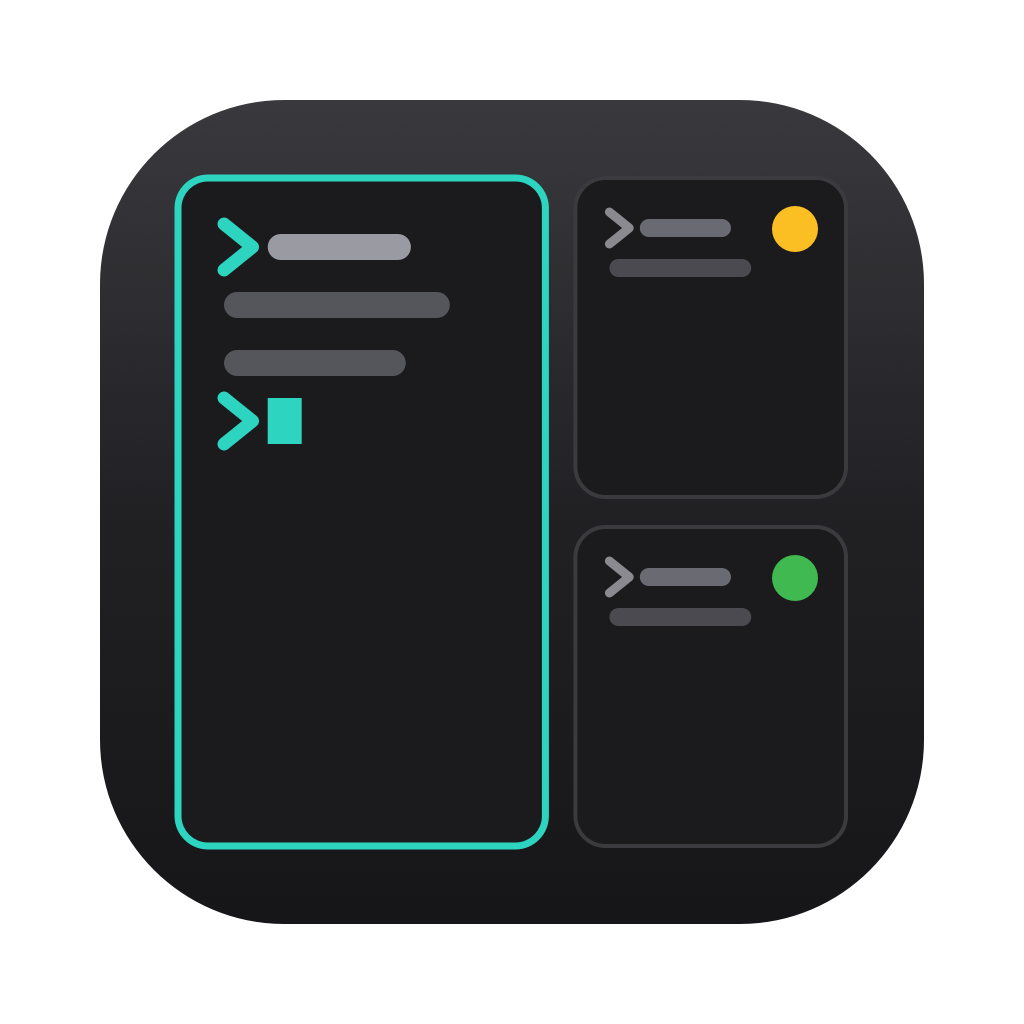
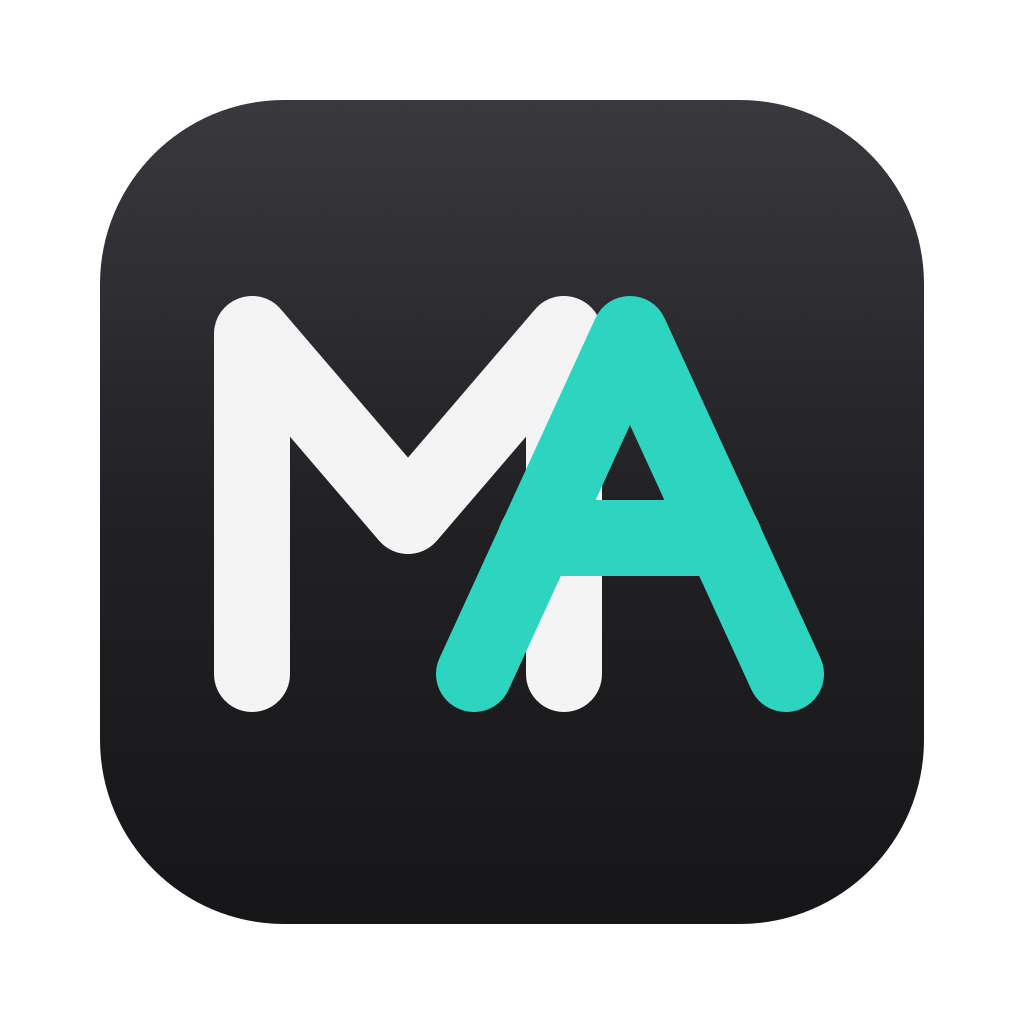
feat: 앱 아이콘 재디자인 — MA 겹친 모노그램(GitBaro 톤·muxa 청록 A)

Changed region(s): [[0.1562, 0.1562, 0.8438, 0.8438], [0.5625, 0.8125, 0.8125, 0.8438]]

diff --git a/scripts/build-appicon/icon-gen.swift b/scripts/build-appicon/icon-gen.swift
@@ -1,8 +1,7 @@
 import AppKit
 
-// muxa 앱 아이콘 생성기 — Core Graphics 드로잉(SVG 래스터라이저 의존 없음).
-// 정체성: 에이전트 오케스트레이션 터미널 = 분할된 칸(멀티플렉싱) + "나를 기다린다" 알림 점.
-// 색은 Palette.swift 다크 값 그대로.
+// muxa 앱 아이콘 — GitBaro의 "GB 겹친 모노그램" 톤을 따르되 muxa 정체성 색을 쓴다.
+// 차콜 squircle + 두꺼운 geometric "MA" 모노그램(M=밝은 흰, A=청록 borderFocus)이 획을 겹친다.
 
 let S: CGFloat = 1024
 
@@ -16,114 +15,54 @@ let rep = NSBitmapImageRep(bitmapDataPlanes: nil, pixelsWide: Int(S), pixelsHigh
     colorSpaceName: .deviceRGB, bytesPerRow: 0, bitsPerPixel: 0)!
 NSGraphicsContext.saveGraphicsState()
 NSGraphicsContext.current = NSGraphicsContext(bitmapImageRep: rep)
-let ctx = NSGraphicsContext.current!.cgContext
 
-// ── 1. squircle 배경 (macOS 아이콘 그리드: 824 shape in 1024, 여백 100) ──
+// ── squircle 배경 (GitBaro 톤: 차콜, 미세 그라디언트) ──
 let margin: CGFloat = 100
 let shape = CGRect(x: margin, y: margin, width: S - 2 * margin, height: S - 2 * margin)
-let corner: CGFloat = shape.width * 0.2237 // Apple squircle 근사
-let bgPath = NSBezierPath(roundedRect: shape, xRadius: corner, yRadius: corner)
-bgPath.addClip()
+let corner = shape.width * 0.2237
+let bg = NSBezierPath(roundedRect: shape, xRadius: corner, yRadius: corner)
+bg.addClip()
+NSGradient(colors: [hex(0x2C2C31), hex(0x161618)])!.draw(in: shape, angle: -90)
+NSGradient(colors: [hex(0xFFFFFF, 0.06), hex(0xFFFFFF, 0)])!
+    .draw(in: CGRect(x: shape.minX, y: shape.midY, width: shape.width, height: shape.height / 2), angle: -90)
 
-// 차콜 세로 그라디언트 (위가 살짝 밝아 입체감)
-let grad = NSGradient(colors: [hex(0x2C2C31), hex(0x161618)])!
-grad.draw(in: shape, angle: -90)
+// ── MA 모노그램 (두꺼운 stroke, round join — geometric) ──
+let lw: CGFloat = 76
+func p(_ x: CGFloat, _ y: CGFloat) -> NSPoint { NSPoint(x: x, y: y) }
 
-// 상단 미세 하이라이트(유리질 느낌)
-let gloss = NSGradient(colors: [hex(0xFFFFFF, 0.06), hex(0xFFFFFF, 0)])!
-gloss.draw(in: CGRect(x: shape.minX, y: shape.midY, width: shape.width, height: shape.height / 2), angle: -90)
-
-// ── 2. 3분할 터미널 칸 (좌 큰 칸 + 우 상/하) ──
-let pad: CGFloat = 78
-let content = shape.insetBy(dx: pad, dy: pad)
-let gap: CGFloat = 30
-let leftW = content.width * 0.55
-let rightW = content.width - leftW - gap
-let rightX = content.minX + leftW + gap
-let halfH = (content.height - gap) / 2
-
-let paneRadius: CGFloat = 30
-struct Pane { let rect: CGRect; let active: Bool }
-let leftPane  = Pane(rect: CGRect(x: content.minX, y: content.minY, width: leftW, height: content.height), active: true)
-let topRight  = Pane(rect: CGRect(x: rightX, y: content.minY + halfH + gap, width: rightW, height: halfH), active: false)
-let botRight  = Pane(rect: CGRect(x: rightX, y: content.minY, width: rightW, height: halfH), active: false)
-
-func drawPane(_ p: Pane) {
-    let path = NSBezierPath(roundedRect: p.rect, xRadius: paneRadius, yRadius: paneRadius)
-    hex(0x1B1B1D).setFill()
-    path.fill()
-    // 활성 칸은 청록 테두리(포커스), 나머지는 은은한 회색.
-    (p.active ? hex(0x2DD4BF) : hex(0x3A3A3F)).setStroke()
-    path.lineWidth = p.active ? 7 : 4
+func stroke(_ path: NSBezierPath, _ color: NSColor) {
+    path.lineWidth = lw
+    path.lineJoinStyle = .round
+    path.lineCapStyle = .round
+    color.setStroke()
     path.stroke()
 }
-[leftPane, topRight, botRight].forEach(drawPane)
 
-// ── 3. 각 칸의 프롬프트 (chevron › + 텍스트 라인 막대) ──
-func bar(_ x: CGFloat, _ y: CGFloat, _ w: CGFloat, _ h: CGFloat, _ c: NSColor) {
-    c.setFill()
-    NSBezierPath(roundedRect: CGRect(x: x, y: y, width: w, height: h), xRadius: h / 2, yRadius: h / 2).fill()
-}
+let yBot: CGFloat = 350
+let yTop: CGFloat = 690
 
-// chevron "›" 을 두 획 path로 그린다(폰트 의존 없음).
-func chevron(at pt: CGPoint, size: CGFloat, color: NSColor, width: CGFloat) {
-    let p = NSBezierPath()
-    p.move(to: CGPoint(x: pt.x, y: pt.y + size))
-    p.line(to: CGPoint(x: pt.x + size * 0.62, y: pt.y + size / 2))
-    p.line(to: CGPoint(x: pt.x, y: pt.y))
-    p.lineWidth = width
-    p.lineCapStyle = .round
-    p.lineJoinStyle = .round
-    color.setStroke()
-    p.stroke()
-}
+// M — 왼쪽. 좌하→좌상(뾰족)→중턱(V 바닥)→우상(뾰족)→우하. 밝은 흰.
+let m = NSBezierPath()
+m.move(to: p(252, yBot))
+m.line(to: p(252, yTop))
+m.line(to: p(408, 508))
+m.line(to: p(564, yTop))
+m.line(to: p(564, yBot))
+stroke(m, hex(0xF4F4F5))
 
-// 좌측 활성 칸: 밝은 프롬프트 + 청록 커서 블록
-do {
-    let r = leftPane.rect.insetBy(dx: 46, dy: 46)
-    let lh: CGFloat = 26           // 라인 높이(막대 두께)
-    let ls: CGFloat = 58           // 라인 간격
-    let chSize: CGFloat = 46
-    var y = r.maxY - chSize
-    // line 1: › + 명령
-    chevron(at: CGPoint(x: r.minX, y: y), size: chSize, color: hex(0x2DD4BF), width: 13)
-    bar(r.minX + chSize * 0.95, y + (chSize - lh) / 2, r.width * 0.52, lh, hex(0x9A9AA2))
-    y -= ls
-    // line 2~3: 출력 라인(어두운 muted)
-    bar(r.minX, y + (chSize - lh) / 2, r.width * 0.82, lh, hex(0x55555C))
-    y -= ls
-    bar(r.minX, y + (chSize - lh) / 2, r.width * 0.66, lh, hex(0x55555C))
-    y -= ls
-    // 커서 라인: › + 청록 커서 블록
-    chevron(at: CGPoint(x: r.minX, y: y), size: chSize, color: hex(0x2DD4BF), width: 13)
-    hex(0x2DD4BF).setFill()
-    NSBezierPath(rect: CGRect(x: r.minX + chSize * 0.95, y: y, width: 34, height: chSize)).fill()
-}
-
-// 우측 두 칸: 간단한 프롬프트 + 상태 점(상=대기 주황, 하=완료 초록)
-func drawRightPane(_ p: Pane, dotColor: NSColor) {
-    let r = p.rect.insetBy(dx: 34, dy: 34)
-    let lh: CGFloat = 18
-    let ls: CGFloat = 40
-    let chSize: CGFloat = 32
-    var y = r.maxY - chSize
-    chevron(at: CGPoint(x: r.minX, y: y), size: chSize, color: hex(0x8A8A90), width: 9)
-    bar(r.minX + chSize * 0.95, y + (chSize - lh) / 2, r.width * 0.45, lh, hex(0x6A6A72))
-    y -= ls
-    bar(r.minX, y + (chSize - lh) / 2, r.width * 0.7, lh, hex(0x4A4A50))
-    // 상태 점 — 칸 우상단 모서리("이 세션이 나를 기다린다/끝났다")
-    let d: CGFloat = 46
-    let dot = CGRect(x: p.rect.maxX - d - 28, y: p.rect.maxY - d - 28, width: d, height: d)
-    dotColor.setFill()
-    NSBezierPath(ovalIn: dot).fill()
-    // 점 둘레 살짝 어둡게(칸 배경 위 대비)
-    hex(0x1B1B1D, 0.0).setStroke()
-}
-drawRightPane(topRight, dotColor: hex(0xFBBF24)) // 대기(주황)
-drawRightPane(botRight, dotColor: hex(0x3FB950)) // 완료(초록)
+// A — 오른쪽, M과 획을 겹친다(왼다리가 M 오른쪽 영역과 포갬). 청록(muxa 포커스색).
+let a = NSBezierPath()
+a.move(to: p(474, yBot))
+a.line(to: p(630, yTop))
+a.line(to: p(786, yBot))
+stroke(a, hex(0x2DD4BF))
+// A 가로바
+let bar = NSBezierPath()
+bar.move(to: p(536, 486))
+bar.line(to: p(724, 486))
+stroke(bar, hex(0x2DD4BF))
 
 NSGraphicsContext.restoreGraphicsState()
-
 let out = CommandLine.arguments.count > 1 ? CommandLine.arguments[1] : "icon_1024.png"
 try! rep.representation(using: .png, properties: [:])!.write(to: URL(fileURLWithPath: out))
 print("wrote \(out)")